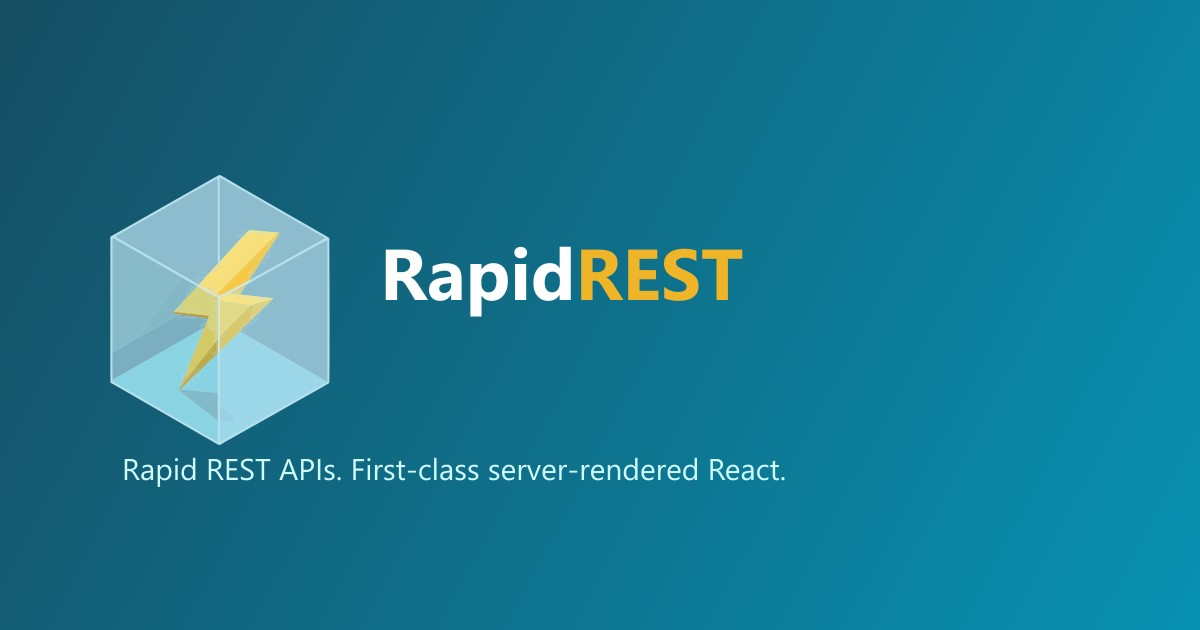
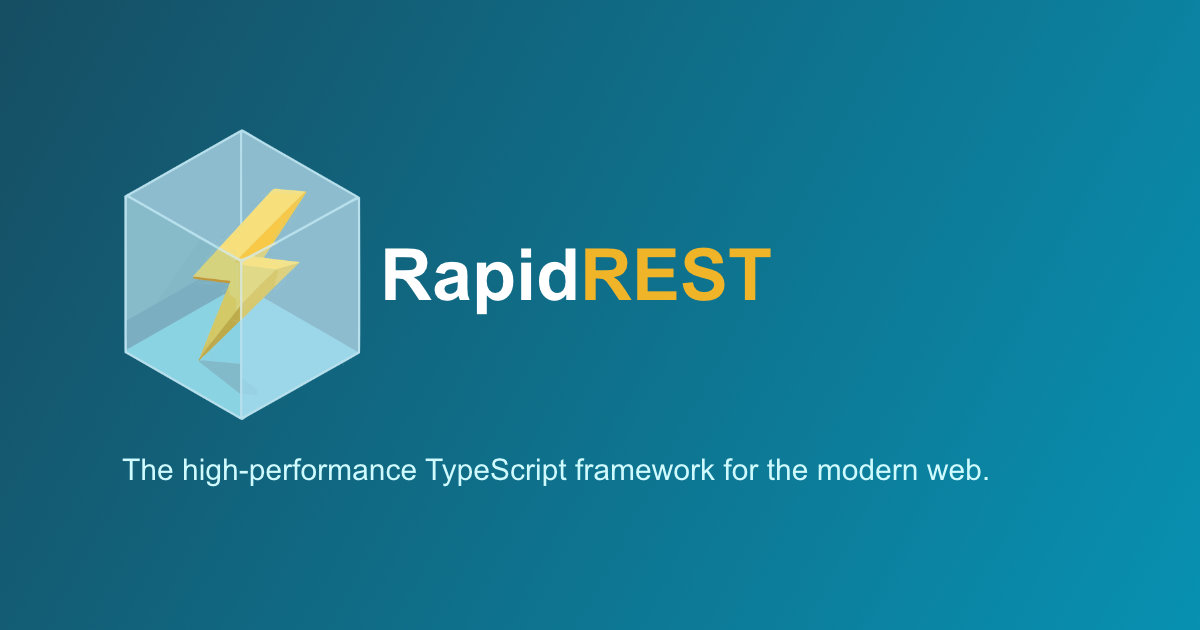
Updating tagline and social card

Changed region(s): [[0.0925, 0.2111, 0.8325, 0.7841]]

diff --git a/docusaurus.config.ts b/docusaurus.config.ts
@@ -6,7 +6,7 @@ import type * as Preset from '@docusaurus/preset-classic';
 
 const config: Config = {
   title: 'RapidREST',
-  tagline: 'A high performance TypeScript framework for rapidly building RESTful APIs and web apps in minutes.',
+  tagline: 'The high-performance TypeScript framework for the modern web.',
   favicon: 'img/favicon.ico',
 
   // Future flags, see https://docusaurus.io/docs/api/docusaurus-config#future

diff --git a/src/pages/index.tsx b/src/pages/index.tsx
@@ -109,7 +109,7 @@ export default function Home(): ReactNode {
   return (
     <Layout
       title={siteConfig.title}
-      description="A high performance TypeScript framework for rapidly building RESTful APIs and web apps in minutes.">
+      description={siteConfig.tagline}>
       <HomepageHeader />
       <main>
         <CodeShowcase />
